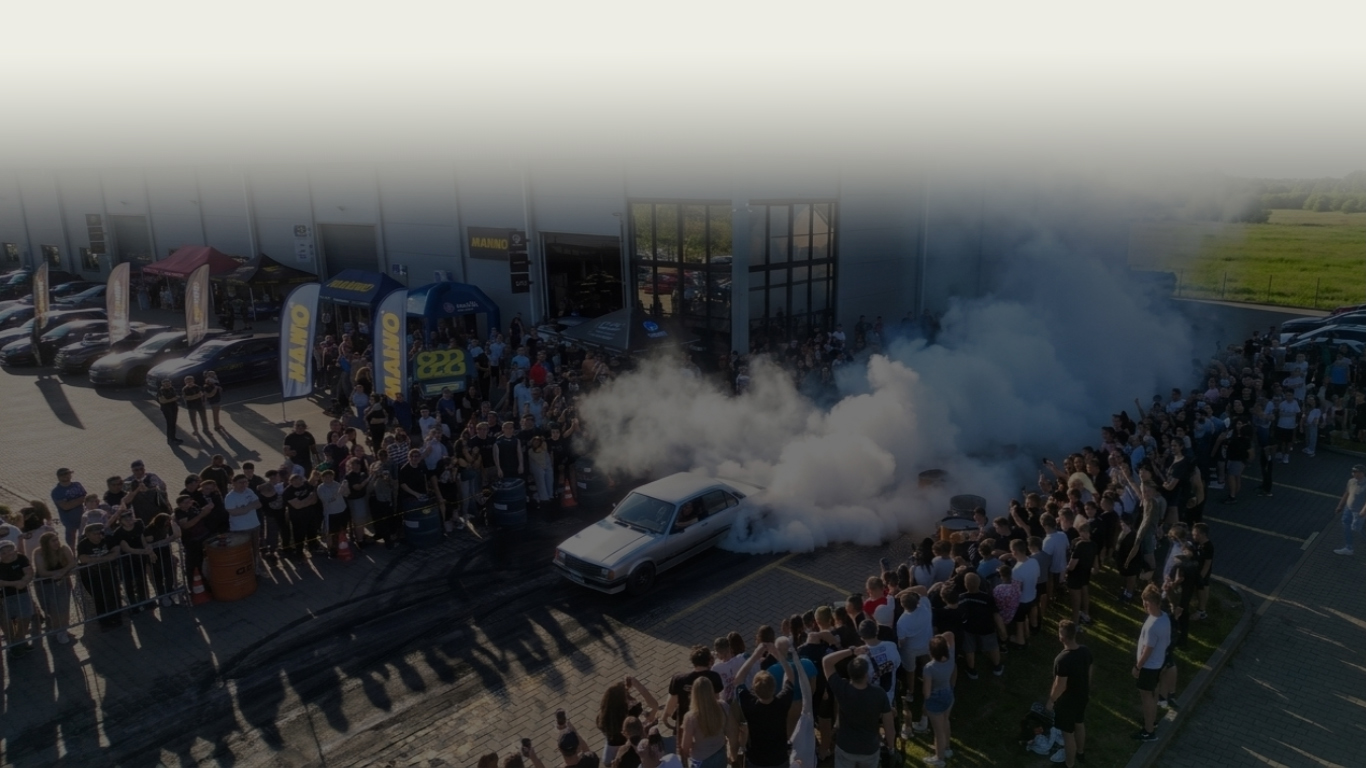
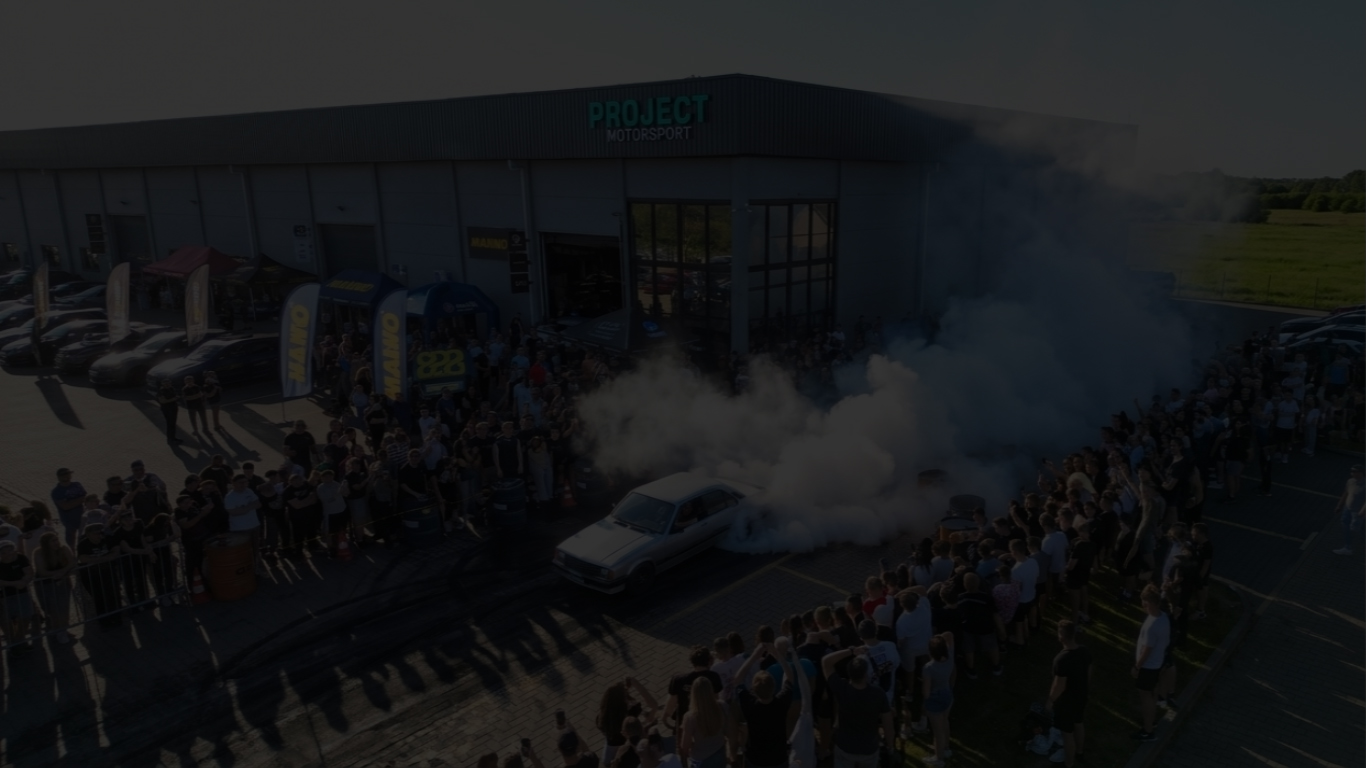
ajuste footer

diff --git a/style.css b/style.css
@@ -640,9 +640,9 @@ ul {
   align-items: stretch;
 
   /* Footer — evento burnout com multidão, cortando mais o céu para revelar o público em baixo */
-  background-image: url('assets/footer.jpg');
+  background-image: url('assets/footer1.jpg');
   background-size: cover;
-  background-position: center 38%;
+  background-position: center 100%;
 }
 
 .footer-content {
